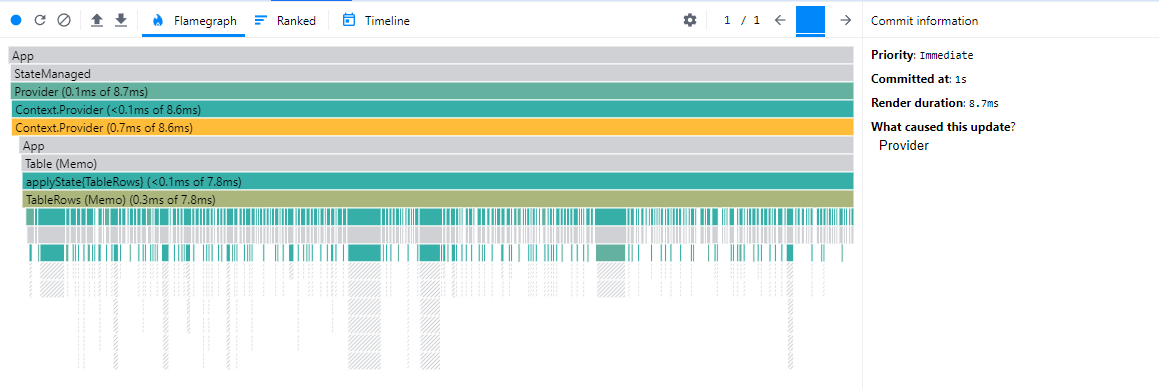
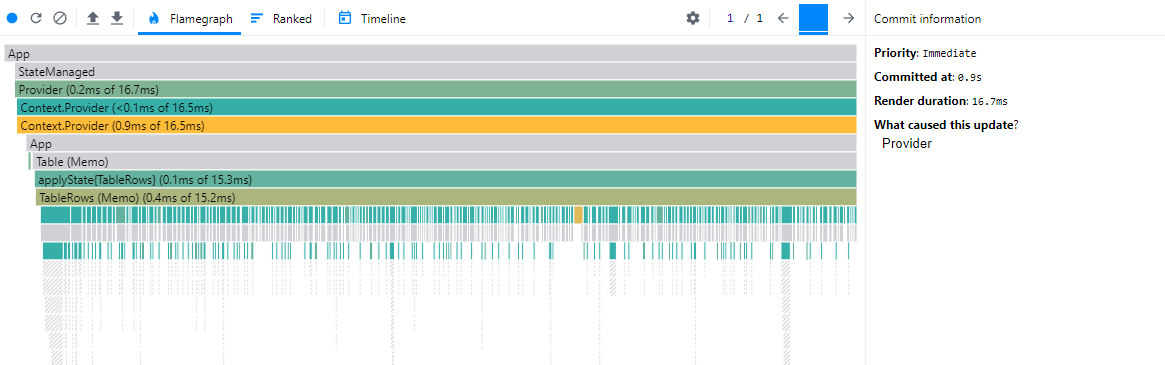
updated images

diff --git a/src/resources/utils.ts b/src/resources/utils.ts
@@ -1,5 +1,5 @@
 export const heavy = () => {
-  for (let i = 0; i < 2000; i++) {
+  for (let i = 0; i < 100; i++) {
     JSON.stringify({});
   }
 };

diff --git a/article/part1.md b/article/part1.md
@@ -517,10 +517,10 @@ The rerender overhead of typical architectures scale linearly. If rerenders are 
 
 This can be seen by comparing the performance as the table grows algorithmic complexity. As the resource requirements grows, the god component's responsiveness scales into the stratosphere. The optimized app, on the other hand, is resistant to scaling issues.
 
-Here is a comparison for ticking the table's "All" checkbox. With the unoptimized app, render time is 28ms.
+Here is a comparison for ticking the table's "All" checkbox. With the unoptimized app, render time is 32.6 ms.
 ![performance of click all checkbox using unoptimized app](../images/local-state-all-checkbox.png)
 
-In the optimized app, it is a render speed of 8.7ms. A substantial improvement.
+In the optimized app, it is a render speed of 16.7 ms. A substantial improvement.
 ![performance of click all checkbox using optimized app](../images/optimized-all-checkbox.png)
 
 To see how it truly scales, we can insert an algorithm to artificially slow down the app. The following function will be run in every cell on each render cycle.
